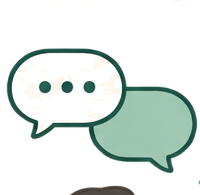
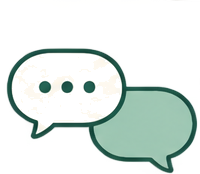
みんなのデータ：兄弟がいる場合に2人目以降が回答できない不具合を修正、ボトムナビのアイコン画像のゴミを除去
- unique(member_id, answer_date)だと、子どもプロフィールが複数あっても1日1回に
  制限されてしまい、「1人分答えたらもう1人の分が答えられない」状態になっていた。
  child_idのNULL（「全体」選択時）を正規化したgenerated column（child_key）を
  間に挟み、一意制約をmember_id・answer_date・child_keyの3列に変更。子どもごと
  （「全体」も含む）に1日1回答えられるようにした。
- APIの/api/daily-question GETがchild_idクエリパラメータを受け取り、選んだ子ども
  （または「全体」）のスコープで質問・回答状況・集計を返すように変更。
- 画面側（/today）も、子ども切り替えタブを「まだ回答していない時だけ」ではなく
  常に表示するように変更（以前は1人分答えるとタブごと消えて切り替えられなかった）。
  タブを切り替えるたびに、そのスコープの状態を取り直す。

- ボトムナビ「みんなのデータ」アイコン（icon_comment.png）の下部に、他の画像から
  紛れ込んだとみられる不要なゴミ（茶色の塊）が写り込んでいたため、画像を
  トリミングして除去。

Claude-Session: https://claude.ai/code/session_01W4DjqrLJb97aoKyTKAMNzw

diff --git a/app/api/daily-question/route.ts b/app/api/daily-question/route.ts
@@ -25,7 +25,7 @@ async function buildAggregate(answerDate: string, questionSlug: string) {
   return { total: data?.length || 0, counts };
 }
 
-export async function GET() {
+export async function GET(req: NextRequest) {
   const { date, question: todaysQuestion } = getTodaysQuestion();
   const member = await getCurrentMember();
 
@@ -33,13 +33,30 @@ export async function GET() {
     return NextResponse.json({ loggedIn: false, date, question: todaysQuestion, myAnswer: null, aggregate: null });
   }
 
+  // 兄弟（複数の子どもプロフィール）がいる場合、子どもごとに1日1回答えられるように
+  // する（2026-10-16、「1人分答えたらもう1人の分が答えられない」不具合の修正）。
+  // どの子ども（または「全体」）についての回答かをchild_idクエリパラメータで切り替える。
+  const childIdParam = new URL(req.url).searchParams.get('child_id');
+  let scopeChildId: string | null = null;
+  if (childIdParam) {
+    const supabaseCheck = getSupabaseAdmin();
+    const { data: child } = await supabaseCheck
+      .from('children')
+      .select('id')
+      .eq('id', childIdParam)
+      .eq('member_id', member.id)
+      .single();
+    if (child) scopeChildId = child.id;
+  }
+
   const supabase = getSupabaseAdmin();
-  const { data: existing } = await supabase
+  let existingQuery = supabase
     .from('daily_answers')
     .select('value, question_slug')
     .eq('member_id', member.id)
-    .eq('answer_date', date)
-    .maybeSingle();
+    .eq('answer_date', date);
+  existingQuery = scopeChildId ? existingQuery.eq('child_id', scopeChildId) : existingQuery.is('child_id', null);
+  const { data: existing } = await existingQuery.maybeSingle();
 
   // 既にその日に回答済みの場合、表示する質問は「保存されている回答のquestion_slug」を
   // 使う（getTodaysQuestion()を使い回さない）。質問バンクの配列を増減させると、同じ
@@ -82,7 +99,11 @@ export async function POST(req: NextRequest) {
     if (child) childId = child.id;
   }
 
-  // 1日1回。既に今日答えている場合は上書き（回答し直し）を許可する。
+  // 子どもごと（「全体」も含む）に1日1回。既にそのスコープで今日答えている場合は
+  // 上書き（回答し直し）を許可する。one Conflictの対象はmember_id・answer_dateに
+  // child_key（child_idのNULLをダミーUUIDに正規化したgenerated column。
+  // supabase_schema.sql参照）を加えた3列の一意制約（2026-10-16、兄弟それぞれが
+  // 答えられるようにする修正で変更）。
   const { error } = await supabase
     .from('daily_answers')
     .upsert(
@@ -93,7 +114,7 @@ export async function POST(req: NextRequest) {
         question_slug: question.slug,
         value,
       },
-      { onConflict: 'member_id,answer_date' }
+      { onConflict: 'member_id,answer_date,child_key' }
     );
 
   if (error) {

diff --git a/app/today/page.tsx b/app/today/page.tsx
@@ -27,21 +27,38 @@ export default function TodayPage() {
   const [error, setError] = useState('');
 
   useEffect(() => {
-    fetch('/api/daily-question')
+    fetch('/api/children')
+      .then((r) => r.json())
+      .then((d) => setChildrenList(d.children || []))
+      .catch(() => setChildrenList([]));
+  }, []);
+
+  // 兄弟（複数の子どもプロフィール）がいる場合、それぞれ別に1日1回答えられるように
+  // する（2026-10-16、「1人分答えたらもう1人の分が答えられない」不具合の修正）。
+  // 選んでいる子ども（全体/子どもA/子どもB…）が変わるたびに、そのスコープの
+  // 質問・回答状況を取り直す。
+  useEffect(() => {
+    let cancelled = false;
+    setMyAnswer(null);
+    setAggregate(null);
+    const qs = selectedChildId ? `?child_id=${encodeURIComponent(selectedChildId)}` : '';
+    fetch(`/api/daily-question${qs}`)
       .then((r) => r.json())
       .then((d) => {
+        if (cancelled) return;
         setLoggedIn(!!d.loggedIn);
         setDate(d.date);
         setQuestion(d.question);
         setMyAnswer(d.myAnswer);
         setAggregate(d.aggregate);
       })
-      .catch(() => setLoggedIn(false));
-    fetch('/api/children')
-      .then((r) => r.json())
-      .then((d) => setChildrenList(d.children || []))
-      .catch(() => setChildrenList([]));
-  }, []);
+      .catch(() => {
+        if (!cancelled) setLoggedIn(false);
+      });
+    return () => {
+      cancelled = true;
+    };
+  }, [selectedChildId]);
 
   async function answer(value: string) {
     if (submitting || myAnswer) return;
@@ -132,7 +149,11 @@ export default function TodayPage() {
               <div className="muted" style={{ fontSize: 12 }}>{date}の質問</div>
               <div className="answer-label" style={{ fontSize: 15 }}>{question.text}</div>
 
-              {!myAnswer && childrenList.length > 0 && (
+              {/* 以前は「まだ回答していない時だけ」表示していたが、それだと兄弟がいる場合に
+                  1人分答えた時点で切り替えタブごと消えてしまい、もう1人の分に切り替えられ
+                  なくなっていた（2026-10-16、不具合修正）。答えた後も切り替えられるよう、
+                  常に表示する。 */}
+              {childrenList.length > 0 && (
                 <div className="chip-row chip-row-wrap">
                   <button
                     type="button"
